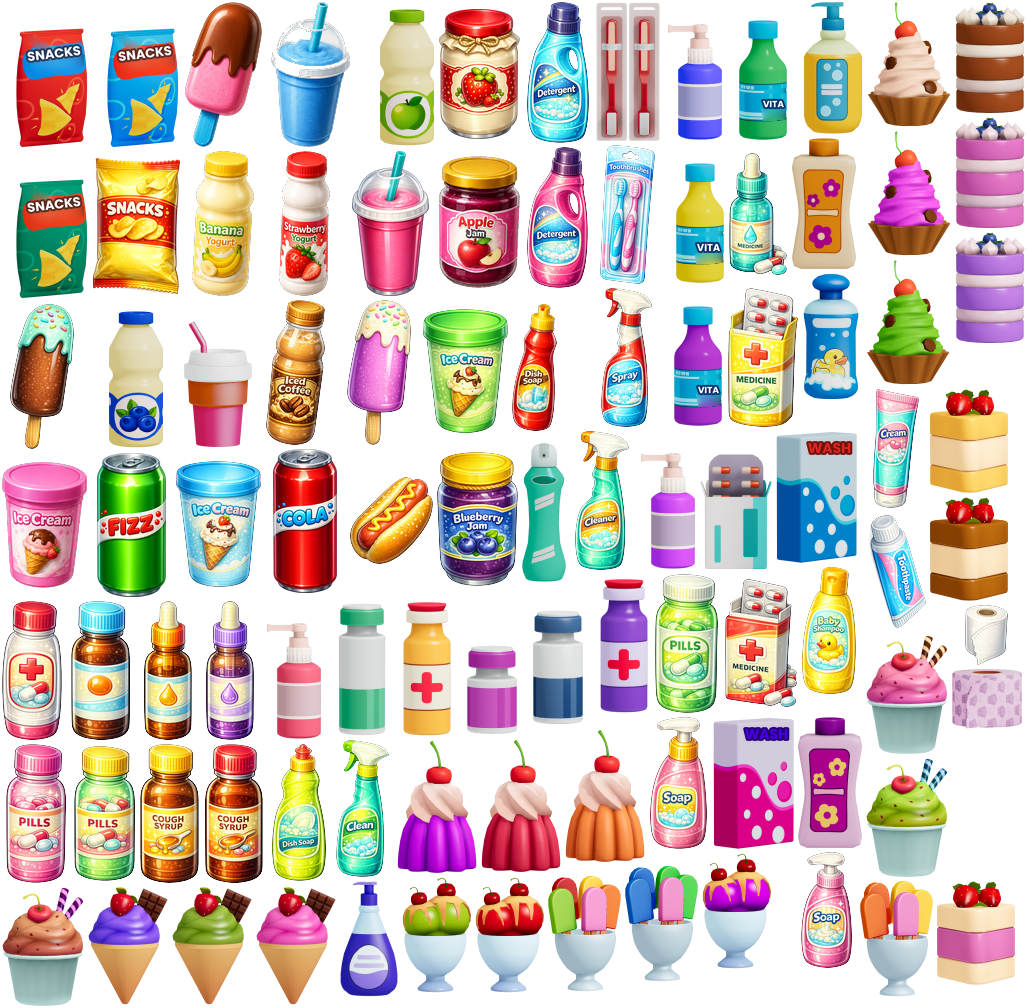
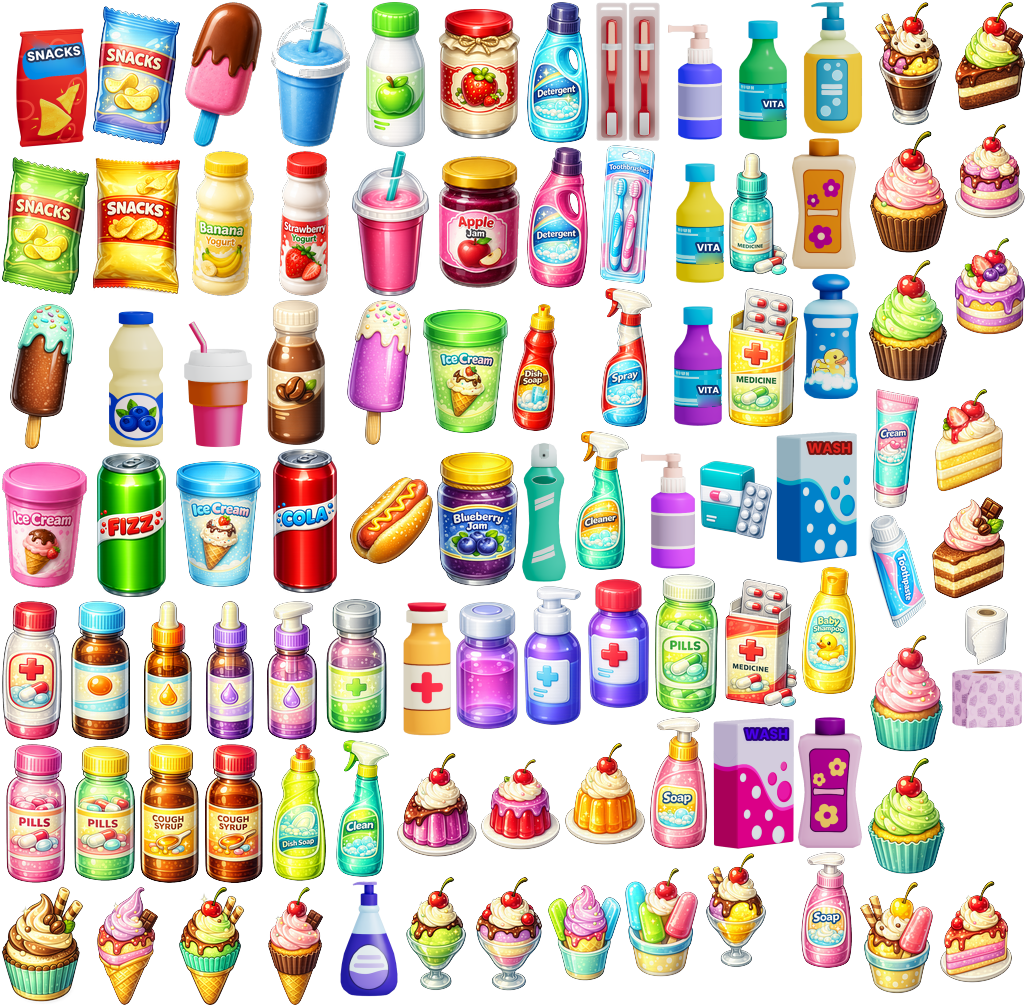
Add files via upload

diff --git a/index.html b/index.html
@@ -23,20 +23,20 @@
       - azerion-libs.js + azerion-integration-sdk.js -> sdk-stub.js (offline)
         (os SDKs reais estao em /vendor para estudo)
   -->
-  <script src="sdk-stub.js?v=85"></script>
+  <script src="sdk-stub.js?v=97"></script>
   <script src="libs/phaser.min.js" defer="true"></script>
-  <script src="boot-counter-bridge.js?v=85" defer="defer"></script>
-  <script src="shop-bridge.js?v=85" defer="defer"></script>
-  <script src="pause-bridge.js?v=85" defer="defer"></script>
-  <script src="settings-bridge.js?v=85" defer="defer"></script>
-  <script src="levelend-bridge.js?v=85" defer="defer"></script>
-  <script src="menu-bridge.js?v=85" defer="defer"></script>
-  <script src="plus-coins-bridge.js?v=85" defer="defer"></script>
-  <script src="daily-reward-bridge.js?v=85" defer="defer"></script>
-  <script src="gameplay-score-bridge.js?v=85" defer="defer"></script>
-  <script src="combo-legend-bridge.js?v=85" defer="defer"></script>
-  <script src="ranking-bridge.js?v=85" defer="defer"></script>
-  <script defer="defer" src="game/grocery-store.min.js?v=85"></script>
+  <script src="boot-counter-bridge.js?v=97" defer="defer"></script>
+  <script src="shop-bridge.js?v=97" defer="defer"></script>
+  <script src="pause-bridge.js?v=97" defer="defer"></script>
+  <script src="settings-bridge.js?v=97" defer="defer"></script>
+  <script src="levelend-bridge.js?v=97" defer="defer"></script>
+  <script src="menu-bridge.js?v=97" defer="defer"></script>
+  <script src="plus-coins-bridge.js?v=97" defer="defer"></script>
+  <script src="daily-reward-bridge.js?v=97" defer="defer"></script>
+  <script src="gameplay-score-bridge.js?v=97" defer="defer"></script>
+  <script src="combo-legend-bridge.js?v=97" defer="defer"></script>
+  <script src="ranking-bridge.js?v=97" defer="defer"></script>
+  <script defer="defer" src="game/grocery-store.min.js?v=97"></script>
 </head>
 <body>
   <!-- header/menu do portal yahoo removido (iframe externo que nao carrega local) -->